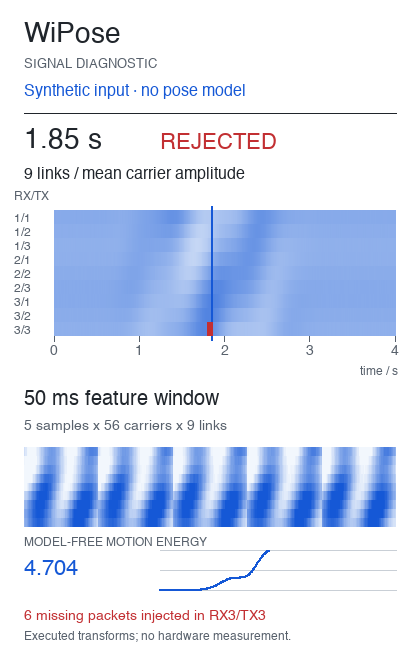
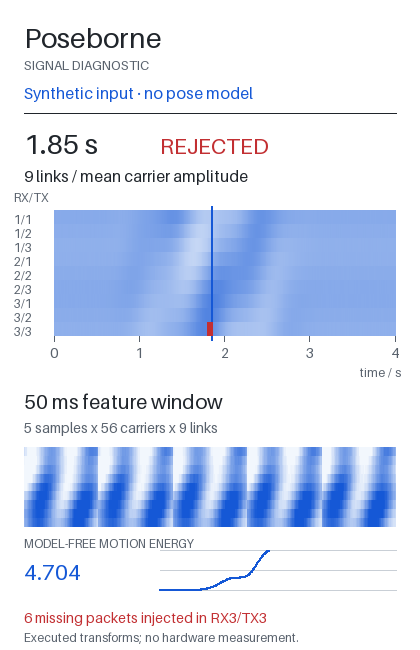
Introduce Poseborne with the WiPose command kept compatible

diff --git a/scripts/showcase.py b/scripts/showcase.py
@@ -1,4 +1,4 @@
-"""Render the WiPose signal path with deterministic synthetic I/Q, never pose inference.
+"""Render the Poseborne signal path with deterministic synthetic I/Q, never pose inference.
 
 The numerical work calls the retained amplitude, alignment, window and motion
 energy routines. Pillow only draws those results. No network or model is used.
@@ -128,7 +128,7 @@ def render_frames(trace, *, font_path=None, compact=False):
             points=[(x+j*width/400,y+height-float(energies[j])*height/max(energies.max(),1))
                     for j in range(sample+1)]
             if len(points)>1:line(points,cobalt,2)
-        txt(24 if compact else 32, 20, "WiPose", 28 if compact else 32)
+        txt(24 if compact else 32, 20, "Poseborne", 28 if compact else 32)
         if compact:
             txt(24,57,"SIGNAL DIAGNOSTIC",13,muted)
             txt(24,83,"Synthetic input · no pose model",16,cobalt)
@@ -148,7 +148,7 @@ def render_frames(trace, *, font_path=None, compact=False):
             txt(24,609,"6 missing packets injected in RX3/TX3",14,warning)
             txt(24,630,"Executed transforms; no hardware measurement.",12,muted)
         else:
-            txt(180,29,"SIGNAL DIAGNOSTIC",16,muted)
+            txt(250,29,"SIGNAL DIAGNOSTIC",16,muted)
             txt(32,74,"Synthetic I/Q · 9 links · 56 carriers · 100 Hz",20)
             txt(815,25,f"t = {sample/100:.2f} s",28)
             txt(815,68,"VALID WINDOW" if good else "REJECTED WINDOW",20,ink if good else warning)

diff --git a/tests/test_entrypoint.py b/tests/test_entrypoint.py
@@ -7,6 +7,7 @@ ROOT = Path(__file__).resolve().parents[1]
 spec = importlib.util.spec_from_file_location("entry", ROOT / "wipose.py")
 entry = importlib.util.module_from_spec(spec)
 spec.loader.exec_module(entry)
+import poseborne
 
 class EntrypointTests(unittest.TestCase):
     def test_dispatch_preserves_arguments_and_failure_code(self):
@@ -18,6 +19,15 @@ class EntrypointTests(unittest.TestCase):
                 self.assertEqual(Path(call.call_args.args[0][1]), ROOT / path)
                 expected = (ROOT / path).parent if mode == "run" else ROOT
                 self.assertEqual(call.call_args.kwargs["cwd"], expected)
+
+    def test_new_facade_preserves_dispatch_and_failure_code(self):
+        for mode, path in entry.COMMANDS.items():
+            with self.subTest(mode=mode), patch.object(entry.subprocess, "call", return_value=7) as call:
+                args = ["--input", "path with spaces/input.dat"]
+                self.assertEqual(poseborne.main([mode, *args]), 7)
+                self.assertEqual(call.call_args.args[0][2:], args)
+                self.assertEqual(Path(call.call_args.args[0][1]), ROOT / path)
+                self.assertEqual(call.call_args.kwargs["cwd"], ROOT)
 
 if __name__ == "__main__":
     unittest.main()

diff --git a/scripts/system_figure.py b/scripts/system_figure.py
@@ -1,4 +1,4 @@
-"""Original scientific WiPose figure. Standard-library vector source.
+"""Original scientific Poseborne figure. Standard-library vector source.
 
 The signal texture and BODY-18 glyph are explicitly schematic, not results.
 Default shapes come from train/csi_train/model.py and rt/csi_rt/infer.py.
@@ -154,7 +154,7 @@ def checkpoint(p,x,y):
 
 
 def desktop():
-    p=start(1440,885,'WiPose: from radio links to 18-joint 2D pose')
+    p=start(1440,885,'Poseborne: from radio links to 18-joint 2D pose')
     label(p,40,49,'WiFi → 18-joint 2D pose',36,INK,700,display=True)
     label(p,40,83,'Single-person WiSPPN-ESP · default amplitude / PAM route',21,MUTED)
     for x,color,txt in [(760,BLUE,'CSI input'),(945,PURPLE,'Learned model'),(1175,TRAINING,'Training only')]:
@@ -219,7 +219,7 @@ def desktop():
 
 
 def mobile():
-    p=start(420,1365,'WiPose scientific system figure, narrow layout')
+    p=start(420,1365,'Poseborne scientific system figure, narrow layout')
     label(p,24,36,'WiFi → 18 joints in 2D',27,INK,700,display=True)
     label(p,24,66,'Single person · default amplitude / PAM',17,MUTED)
     label(p,24,106,'3 TX × 3 RX · ESP32-S3',22,BLUE,700,display=True)

diff --git a/scripts/presentation.py b/scripts/presentation.py
@@ -1,4 +1,4 @@
-"""Generate WiPose scientific/guide SVGs and badges with the standard library.
+"""Generate Poseborne scientific/guide SVGs and badges with the standard library.
 
 This draws documented data dependencies, not measured radio propagation or poses.
 See docs/PIPELINE.md for the implementation behind each arrow.

diff --git a/wipose.py b/wipose.py
@@ -1,4 +1,4 @@
-"""WiPose: WiFi channel measurements into 18-joint pose estimates."""
+"""Poseborne: WiFi channel measurements into 18-joint pose estimates. Legacy wipose.py command retained."""
 import argparse
 from pathlib import Path
 import subprocess

diff --git a/poseborne.py b/poseborne.py
@@ -1,0 +1,6 @@
+"""Poseborne command facade. The original wipose.py entry point remains compatible."""
+from wipose import main
+
+
+if __name__ == "__main__":
+    raise SystemExit(main())

diff --git a/README.md b/README.md
@@ -1,4 +1,6 @@
-# WiPose
+<a name="wipose"></a>
+
+# Poseborne
 
 **WiFi CSI → an 18-joint, single-person 2D pose.**
 
@@ -13,7 +15,7 @@ This fork adds a command facade, source-traced figures and a reproducible **synt
 <a href="figures/pipeline-overview.svg">
 <picture>
   <source media="(max-width: 600px)" srcset="figures/pipeline-overview-mobile.png">
-  <img src="figures/pipeline-overview.png" alt="Scientific WiPose system figure: three transmitters and three receivers create nine CSI links; amplitude windows form a 280 by 3 by 3 tensor; the ResNet-18-style WiSPPN encoder produces a PAM whose diagonal yields 18 two-dimensional joints and confidence. A separate camera-teacher training path saves the required checkpoint. Signal and pose illustrations are schematic.">
+  <img src="figures/pipeline-overview.png" alt="Scientific Poseborne system figure: three transmitters and three receivers create nine CSI links; amplitude windows form a 280 by 3 by 3 tensor; the ResNet-18-style WiSPPN encoder produces a PAM whose diagonal yields 18 two-dimensional joints and confidence. A separate camera-teacher training path saves the required checkpoint. Signal and pose illustrations are schematic.">
 </picture>
 </a>
 
@@ -30,8 +32,8 @@ Default amplitude/PAM route; signal textures and pose glyphs are schematic. [Edi
 ## Get the code
 
 ```bash
-git clone https://github.com/nazeeh111/WiPose.git
-cd WiPose
+git clone https://github.com/nazeeh111/Poseborne.git
+cd Poseborne
 python -m venv .venv
 # macOS / Linux; Windows: .venv\Scripts\activate
 source .venv/bin/activate
@@ -39,13 +41,15 @@ source .venv/bin/activate
 
 Then install the requirements for your chosen route below.
 
+Previously named **WiPose**. Existing `python wipose.py …` commands remain supported; the research modules, checkpoint formats and output records keep their existing contracts.
+
 ## Run the signal walkthrough
 
 Try the preprocessing path without boards, camera, broker or trained weights:
 
 ```bash
 python -m pip install -r requirements-showcase.txt
-python wipose.py showcase
+python poseborne.py showcase
 ```
 
 <picture>
@@ -69,7 +73,7 @@ Install the [research requirements](requirements.txt) in a separate environment,
 
 ```bash
 python -m pip install -r requirements.txt
-python wipose.py infer \
+python poseborne.py infer \
   --replay /path/to/session.h5 \
   --ckpt /path/to/checkpoint.pt \
   --headless --fast --perf-out replay-performance.json
@@ -77,11 +81,11 @@ python wipose.py infer \
 
 The checkpoint contains weights, the channel convention and normalization statistics. No trained checkpoint is bundled. `--random-weights` provides a pipeline smoke check, not meaningful pose estimates. [Inference contract](docs/PIPELINE.md#inference-and-replay) · [Inference CLI source](rt/demo.py)
 
-For new recordings, follow the [hardware and training guide](docs/REFERENCE.md#getting-started). `python wipose.py train --help`, `python wipose.py label --help` and `python wipose.py probe --help` expose the underlying tools. Teacher labeling downloads third-party ONNX models when run.
+For new recordings, follow the [hardware and training guide](docs/REFERENCE.md#getting-started). `python poseborne.py train --help`, `python poseborne.py label --help` and `python poseborne.py probe --help` expose the underlying tools. Teacher labeling downloads third-party ONNX models when run.
 
 ## Evidence and limits
 
-- **Executed here:** deterministic synthetic transforms, missing-data rejection, safe output handling, CLI dispatch and bounded kernel comparisons. [Signal walkthrough CI](https://github.com/nazeeh111/WiPose/actions/workflows/showcase.yml) · [Verification record](docs/VERIFICATION.md). Run `python -m unittest discover -s tests -v` after installing the lightweight showcase requirements.
+- **Executed here:** deterministic synthetic transforms, missing-data rejection, safe output handling, CLI dispatch and bounded kernel comparisons. [Signal walkthrough CI](https://github.com/nazeeh111/Poseborne/actions/workflows/showcase.yml) · [Verification record](docs/VERIFICATION.md). Run `python -m unittest discover -s tests -v` after installing the lightweight showcase requirements.
 - **Retained from the original research:** the recording, figures and source-reported results in the [reference guide](docs/REFERENCE.md). Six-board capture, teacher labeling, full training and trained inference have not been replicated in this fork.
 - **Scope:** one person in 2D. No cross-session accuracy or fall-safety guarantee. The fall rules are experimental, not a validated safety or medical system. An invalid input window retains the last displayed pose/state, so a visible skeleton can be stale.
 

diff --git a/NOTICE.md b/NOTICE.md
@@ -2,6 +2,6 @@
 
 The retained implementation comes from [sel00000/csi-pose](https://github.com/sel00000/csi-pose/tree/02b1001590beea8e7d6daac57a4d8b4a345eb50f), snapshot `02b1001590beea8e7d6daac57a4d8b4a345eb50f`. The source is associated with ESP32-S3 WiFi pose-estimation research; the named authors are Kyung-Bo Kim, Hyun-Seok Jang, So-Hyeon Kim and Gyu-Chae Jung.
 
-WiPose adds a command-line facade, source/CPU parity checks, documentation and a reproducible animated signal walkthrough, maintained by nazeeh111. The walkthrough calls the retained amplitude, alignment, window and motion-energy routines on deterministic synthetic input; it does not infer human pose or establish hardware accuracy. These additions do not establish new authorship of the research method or independently reproduce the source-reported scientific results.
+Poseborne adds a command-line facade, source/CPU parity checks, documentation and a reproducible animated signal walkthrough, maintained by nazeeh111. The walkthrough calls the retained amplitude, alignment, window and motion-energy routines on deterministic synthetic input; it does not infer human pose or establish hardware accuracy. These additions do not establish new authorship of the research method or independently reproduce the source-reported scientific results.
 
 The original MIT notice naming Kyung-Bo Kim, Hyun-Seok Jang, So-Hyeon Kim and Gyu-Chae Jung is restored in [LICENSE](LICENSE). New additions use [LICENSE-branding](LICENSE-branding). The retained [WiSPPN-derived model notice](THIRD_PARTY_NOTICES.md) reports that its upstream has no license file. Attribution alone does not establish a redistribution grant for those portions, and no separate grant was established by this review. Teacher models and other third-party components retain their own terms. The recorded pose and fall results in the reference guide are source-reported, not new measurements.

diff --git a/README.ko.md b/README.ko.md
@@ -1,4 +1,6 @@
-# WiPose
+# Poseborne
+
+이전 이름은 WiPose이며 기존 `python wipose.py …` 명령도 계속 지원합니다.
 
 [csi-pose](https://github.com/sel00000/csi-pose/tree/02b1001590beea8e7d6daac57a4d8b4a345eb50f)의 파생 패키지입니다. 원 저자는 Kyung-Bo Kim, Hyun-Seok Jang, So-Hyeon Kim, Gyu-Chae Jung이며, 원 연구 결과와 기록된 데모는 이번 패키징 작업에서 재현한 결과가 아닙니다. 추가 기능과 라이선스 범위는 [NOTICE.md](NOTICE.md)를 참고하세요.
 

diff --git a/docs/SHOWCASE.md b/docs/SHOWCASE.md
@@ -6,7 +6,7 @@ The README animation is an original visualization of actual retained numerical r
 
 ```bash
 python -m pip install -r requirements-showcase.txt
-python wipose.py showcase --out signal-demo
+python poseborne.py showcase --out signal-demo
 ```
 
 The output directory must be new. It contains:

diff --git a/docs/PIPELINE.md b/docs/PIPELINE.md
@@ -1,4 +1,4 @@
-# Follow the WiPose pipeline
+# Follow the Poseborne pipeline
 
 Trace the implemented capture, training and inference paths to their source. The [verification record](VERIFICATION.md) distinguishes executed checks from retained research results.
 
